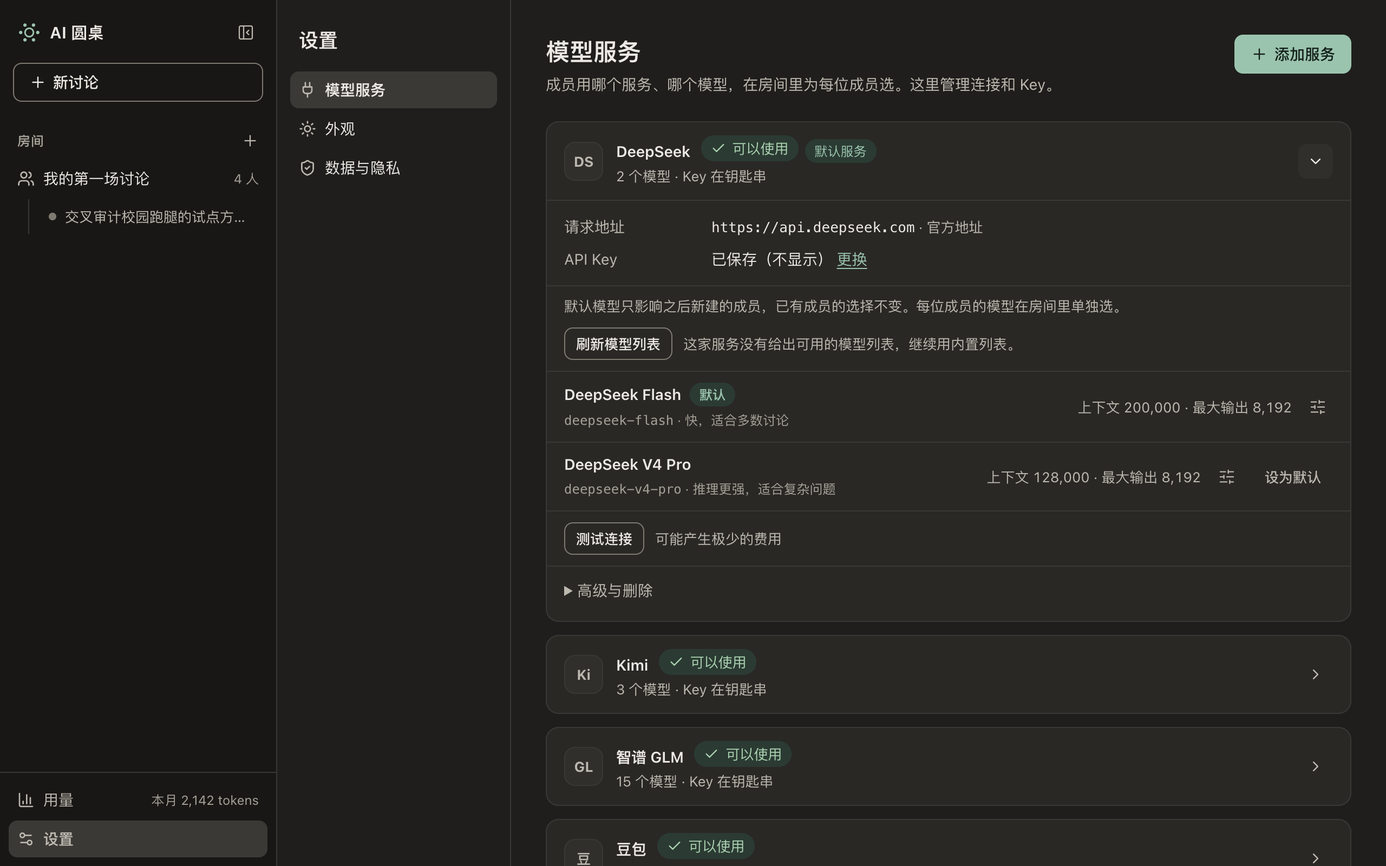
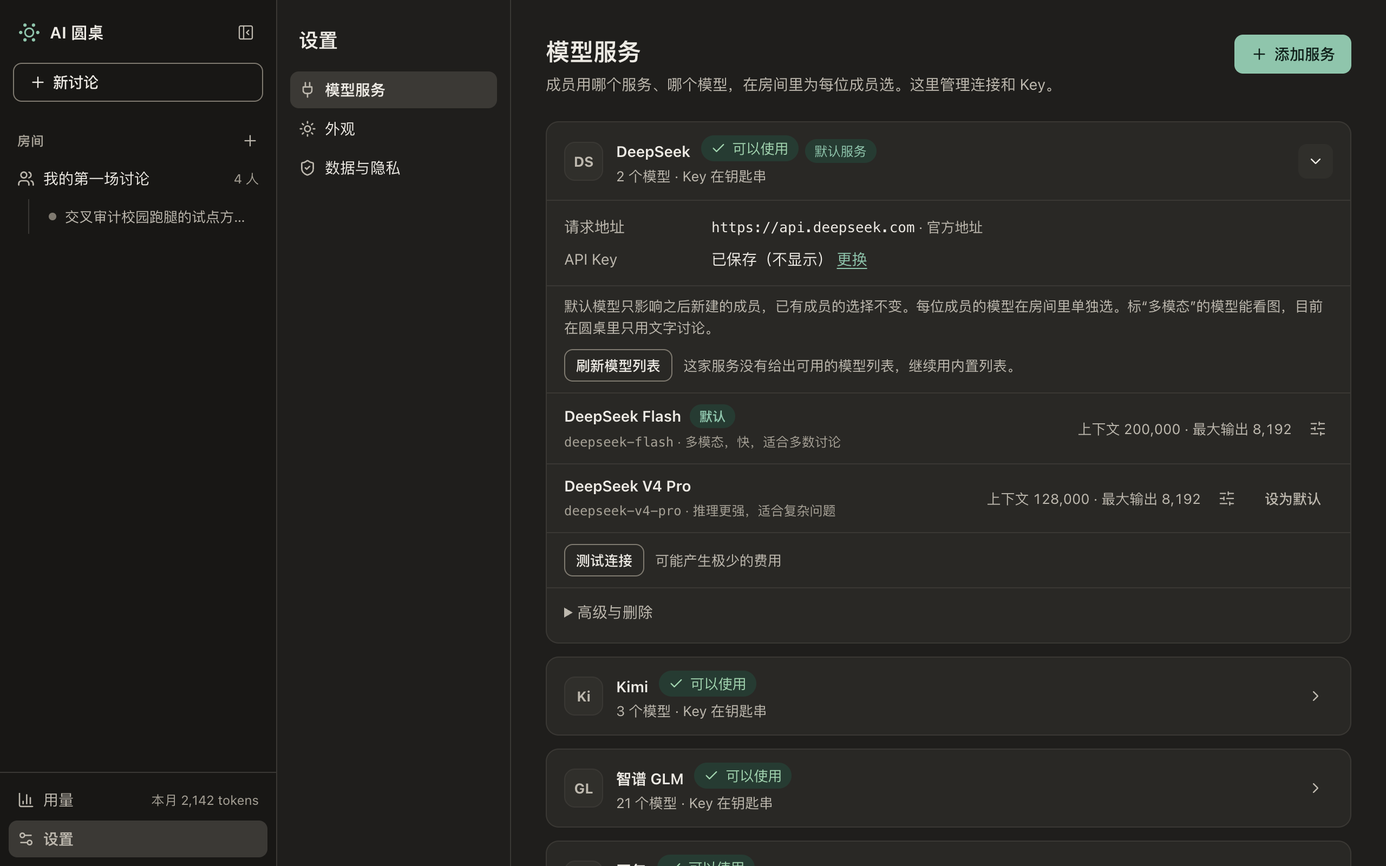
feat: multimodal models can be chosen and take part with text
Each service's multimodal chat models join the catalog, marked as such, and the
model list no longer drops them; models that only generate images, video or
speech stay out. The pages say they discuss in text for now: messages are still
plain strings, and sending images is a separate feature.

diff --git a/src/shared/serviceCatalog.ts b/src/shared/serviceCatalog.ts
@@ -1,54 +1,58 @@
 /**
  * D143: the services and models this app works with, and the only source for them. The wizard offers these; Main refuses
- * anything else before a Key is read or a request is sent. Each service lists its generally usable text models, newest first,
- * as its official documentation had them on 2026-11-04. Left out: what is being retired, closed to new users, built for one
- * task (translation, role play, long documents) or for speech and images only, and other brands' models hosted there.
+ * anything else before a Key is read or a request is sent. Each service lists the models usable for a discussion, newest first,
+ * as its official documentation had them on 2026-11-04. Models that can also read images are marked `multimodal`; the app only
+ * sends them text for now. Left out: what is being retired, closed to new users, built for one task (translation, role play,
+ * long documents) or only for generating speech, images or video, and other brands' models hosted there.
  * - DeepSeek: https://api-docs.deepseek.com/zh-cn/quick_start/pricing/
  * - 豆包: https://www.volcengine.com/docs/82379/1330310
- * - 通义千问: https://help.aliyun.com/zh/model-studio/text-generation-model (the address is the documented one that still works; the newer one holds each user's own workspace ID)
+ * - 通义千问: https://help.aliyun.com/zh/model-studio/text-generation-model , https://help.aliyun.com/zh/model-studio/vision , https://help.aliyun.com/zh/model-studio/qwen-omni (the address is the documented one that still works; the newer one holds each user's own workspace ID)
  * - Kimi: https://platform.kimi.com/docs/models
  * - 智谱 GLM: https://docs.bigmodel.cn/cn/guide/start/model-overview , https://docs.bigmodel.cn/api-reference/模型-api/对话补全
  * - 百度文心: https://cloud.baidu.com/doc/qianfan-docs/s/7m95lyy43 , https://cloud.baidu.com/doc/qianfan-api/s/3m7of64lb
- * - 腾讯混元: https://cloud.tencent.com/document/product/1823/130051 , https://cloud.tencent.com/document/product/1823/132252
+ * - 腾讯混元: https://cloud.tencent.com/document/product/1823/130051 , https://cloud.tencent.com/document/product/1823/132252 , https://cloud.tencent.com/document/product/1823/136956
  * - MiniMax: https://platform.minimax.cn/docs/guides/models-intro
  */
-export type CatalogModel = { id: string; name: string; note?: string; contextWindowTokens?: number };
+export type CatalogModel = { id: string; name: string; note?: string; contextWindowTokens?: number; multimodal?: true };
 /** `modelPattern` is what this service's own models are called; what its model list says beyond that is left out. */
 export type CatalogService = { id: string; name: string; baseUrl: string; modelPattern: RegExp; models: readonly CatalogModel[] };
 
 export const serviceCatalog: readonly CatalogService[] = [
   { id: 'deepseek', name: 'DeepSeek', baseUrl: 'https://api.deepseek.com', modelPattern: /^deepseek-/iu, models: [
-    { id: 'deepseek-flash', name: 'DeepSeek Flash', note: '快，适合多数讨论' },
+    { id: 'deepseek-flash', name: 'DeepSeek Flash', note: '快，适合多数讨论', multimodal: true },
     { id: 'deepseek-v4-pro', name: 'DeepSeek V4 Pro', note: '推理更强，适合复杂问题' }] },
   { id: 'doubao', name: '豆包', baseUrl: 'https://ark.cn-beijing.volces.com/api/v3', modelPattern: /^doubao-seed-/iu, models: [
-    { id: 'doubao-seed-2-1-pro-260915', name: 'Doubao Seed 2.1 Pro', note: '能力最强' },
-    { id: 'doubao-seed-2-1-lite-260915', name: 'Doubao Seed 2.1 Lite', note: '均衡，响应更快' },
-    { id: 'doubao-seed-evolving', name: 'Doubao Seed Evolving', note: '每周更新，长于编程和复杂任务' },
-    { id: 'doubao-seed-2-1-turbo-260628', name: 'Doubao Seed 2.1 Turbo', note: '更快' },
-    { id: 'doubao-seed-2-1-pro-260628', name: 'Doubao Seed 2.1 Pro（6 月版）', note: '上一版 2.1 Pro' },
-    { id: 'doubao-seed-2-0-lite-260428', name: 'Doubao Seed 2.0 Lite', note: '上一代，均衡' },
-    { id: 'doubao-seed-2-0-mini-260428', name: 'Doubao Seed 2.0 Mini', note: '上一代，最轻快' }] },
+    { id: 'doubao-seed-2-1-pro-260915', name: 'Doubao Seed 2.1 Pro', note: '能力最强', multimodal: true },
+    { id: 'doubao-seed-2-1-lite-260915', name: 'Doubao Seed 2.1 Lite', note: '均衡，响应更快', multimodal: true },
+    { id: 'doubao-seed-evolving', name: 'Doubao Seed Evolving', note: '每周更新，长于编程和复杂任务', multimodal: true },
+    { id: 'doubao-seed-2-1-turbo-260628', name: 'Doubao Seed 2.1 Turbo', note: '更快', multimodal: true },
+    { id: 'doubao-seed-2-1-pro-260628', name: 'Doubao Seed 2.1 Pro（6 月版）', note: '上一版 2.1 Pro', multimodal: true },
+    { id: 'doubao-seed-2-0-lite-260428', name: 'Doubao Seed 2.0 Lite', note: '上一代，均衡', multimodal: true },
+    { id: 'doubao-seed-2-0-mini-260428', name: 'Doubao Seed 2.0 Mini', note: '上一代，最轻快', multimodal: true }] },
   { id: 'qwen', name: '通义千问', baseUrl: 'https://dashscope.aliyuncs.com/compatible-mode/v1', modelPattern: /^qwen/iu, models: [
-    { id: 'qwen3.7-plus', name: 'Qwen3.7 Plus', note: '官方默认，能力和速度均衡' },
-    { id: 'qwen3.8-max', name: 'Qwen3.8 Max', note: '能力最强，适合复杂推理' },
-    { id: 'qwen3.8-flash', name: 'Qwen3.8 Flash', note: '快，适合简单任务' },
+    { id: 'qwen3.7-plus', name: 'Qwen3.7 Plus', note: '官方默认，能力和速度均衡', multimodal: true },
+    { id: 'qwen3.8-max', name: 'Qwen3.8 Max', note: '能力最强，适合复杂推理', multimodal: true },
+    { id: 'qwen3.8-flash', name: 'Qwen3.8 Flash', note: '快，适合简单任务', multimodal: true },
+    { id: 'qwen3.8-omni-flash', name: 'Qwen3.8 Omni Flash', note: '长于音视频理解', multimodal: true },
     { id: 'qwen3.7-max', name: 'Qwen3.7 Max', note: '上一代，长于复杂推理' },
-    { id: 'qwen3.7-flash', name: 'Qwen3.7 Flash', note: '上一代，快' },
-    { id: 'qwen3.6-plus', name: 'Qwen3.6 Plus', note: '旧版，均衡' },
-    { id: 'qwen3.6-flash', name: 'Qwen3.6 Flash', note: '旧版，快' },
-    { id: 'qwen3.5-plus', name: 'Qwen3.5 Plus', note: '旧版，均衡' },
-    { id: 'qwen3.5-flash', name: 'Qwen3.5 Flash', note: '旧版，快' },
+    { id: 'qwen3.7-flash', name: 'Qwen3.7 Flash', note: '上一代，快', multimodal: true },
+    { id: 'qwen3.6-plus', name: 'Qwen3.6 Plus', note: '旧版，均衡', multimodal: true },
+    { id: 'qwen3.6-flash', name: 'Qwen3.6 Flash', note: '旧版，快', multimodal: true },
+    { id: 'qwen3.5-plus', name: 'Qwen3.5 Plus', note: '旧版，均衡', multimodal: true },
+    { id: 'qwen3.5-flash', name: 'Qwen3.5 Flash', note: '旧版，快', multimodal: true },
+    { id: 'qwen3-vl-plus', name: 'Qwen3 VL Plus', note: '旧版，长于图像和文档理解', multimodal: true },
     { id: 'qwen-plus', name: 'Qwen Plus', note: '旧版，均衡' },
     { id: 'qwen-max', name: 'Qwen Max', note: '旧版，上下文只有 32k，讨论长了要先生成摘要', contextWindowTokens: 32000 },
     { id: 'qwen-flash', name: 'Qwen Flash', note: '旧版，快' }] },
   { id: 'kimi', name: 'Kimi', baseUrl: 'https://api.moonshot.cn/v1', modelPattern: /^kimi-/iu, models: [
-    { id: 'kimi-k3.1-pro', name: 'Kimi K3.1 Pro', note: '能力最强的旗舰' },
-    { id: 'kimi-k3.1-pro-highspeed', name: 'Kimi K3.1 Pro 高速版', note: '能力相同，速度约 2～3 倍' },
-    { id: 'kimi-k3', name: 'Kimi K3', note: '上一代旗舰' }] },
+    { id: 'kimi-k3.1-pro', name: 'Kimi K3.1 Pro', note: '能力最强的旗舰', multimodal: true },
+    { id: 'kimi-k3.1-pro-highspeed', name: 'Kimi K3.1 Pro 高速版', note: '能力相同，速度约 2～3 倍', multimodal: true },
+    { id: 'kimi-k3', name: 'Kimi K3', note: '上一代旗舰', multimodal: true }] },
   { id: 'glm', name: '智谱 GLM', baseUrl: 'https://open.bigmodel.cn/api/paas/v4', modelPattern: /^glm-/iu, models: [
     { id: 'glm-5.3', name: 'GLM-5.3', note: '旗舰，长于复杂和长程任务' },
-    { id: 'glm-5.3-flash', name: 'GLM-5.3 Flash', note: '快，能力接近上一代旗舰' },
-    { id: 'glm-5.3-flashx', name: 'GLM-5.3 FlashX', note: '比 Flash 更快更流畅' },
+    { id: 'glm-5.3-flash', name: 'GLM-5.3 Flash', note: '快，能力接近上一代旗舰', multimodal: true },
+    { id: 'glm-5.3-flashx', name: 'GLM-5.3 FlashX', note: '比 Flash 更快更流畅', multimodal: true },
+    { id: 'glm-5v-turbo', name: 'GLM-5V Turbo', note: '长于看图和视觉编程', multimodal: true },
     { id: 'glm-5.2', name: 'GLM-5.2', note: '上一代旗舰' },
     { id: 'glm-5.1', name: 'GLM-5.1', note: '较早的旗舰' },
     { id: 'glm-5-turbo', name: 'GLM-5 Turbo', note: 'GLM-5 的快速版' },
@@ -57,20 +61,30 @@ export const serviceCatalog: readonly CatalogService[] = [
     { id: 'glm-4.7-flashx', name: 'GLM-4.7 FlashX', note: '旧版，比 Flash 更快' },
     { id: 'glm-4.7-flash', name: 'GLM-4.7 Flash', note: '旧版，轻量' },
     { id: 'glm-4.6', name: 'GLM-4.6', note: '旧版' },
+    { id: 'glm-4.6v', name: 'GLM-4.6V', note: '旧版，长于看图', multimodal: true },
+    { id: 'glm-4.6v-flashx', name: 'GLM-4.6V FlashX', note: '旧版，轻量且快', multimodal: true },
+    { id: 'glm-4.6v-flash', name: 'GLM-4.6V Flash', note: '旧版，轻量', multimodal: true },
     { id: 'glm-4.5-air', name: 'GLM-4.5 Air', note: '旧版，轻量' },
     { id: 'glm-4.5-airx', name: 'GLM-4.5 AirX', note: '旧版，轻量且响应快' },
     { id: 'glm-4-flashx-250414', name: 'GLM-4 FlashX', note: '旧版，推理很快' },
-    { id: 'glm-4-flash-250414', name: 'GLM-4 Flash', note: '旧版，轻量' }] },
+    { id: 'glm-4-flash-250414', name: 'GLM-4 Flash', note: '旧版，轻量' },
+    { id: 'glm-4.1v-thinking-flashx', name: 'GLM-4.1V Thinking FlashX', note: '旧版，带思考的视觉模型', multimodal: true, contextWindowTokens: 64000 },
+    { id: 'glm-4.1v-thinking-flash', name: 'GLM-4.1V Thinking Flash', note: '旧版，带思考的视觉模型，轻量', multimodal: true, contextWindowTokens: 64000 }] },
   { id: 'ernie', name: '百度文心', baseUrl: 'https://qianfan.baidubce.com/v2', modelPattern: /^ernie-/iu, models: [
     { id: 'ernie-5.1', name: 'ERNIE 5.1', note: '旗舰' }] },
   { id: 'hunyuan', name: '腾讯混元', baseUrl: 'https://tokenhub.tencentmaas.com/v1', modelPattern: /^(hy[0-9-]|hunyuan-)/iu, models: [
-    { id: 'hy4', name: 'HY4', note: '正式版，长于长程和复杂任务' },
+    { id: 'hy4', name: 'HY4', note: '正式版，长于长程和复杂任务', multimodal: true },
     { id: 'hy4-preview', name: 'HY4 Preview', note: '预览版' },
-    { id: 'hy3', name: 'HY3', note: '上一代，长于编程、长文和推理' }] },
+    { id: 'hy3', name: 'HY3', note: '上一代，长于编程、长文和推理' },
+    { id: 'hy-vision-2.0-instruct', name: 'HY Vision 2.0', note: '长于图文理解，输入较短', multimodal: true, contextWindowTokens: 32000 },
+    { id: 'hunyuan-t1-vision-20250916', name: 'HY Vision 1.5 Thinking', note: '上一代，带思考，输入较短', multimodal: true, contextWindowTokens: 24000 }] },
   { id: 'minimax', name: 'MiniMax', baseUrl: 'https://api.minimax.cn/v1', modelPattern: /^minimax-m/iu, models: [
-    { id: 'MiniMax-M3.1-Flash', name: 'MiniMax M3.1 Flash', note: '新一代，思考深度可调' },
-    { id: 'MiniMax-M3', name: 'MiniMax M3', note: '上一版' }] },
+    { id: 'MiniMax-M3.1-Flash', name: 'MiniMax M3.1 Flash', note: '新一代，思考深度可调', multimodal: true },
+    { id: 'MiniMax-M3', name: 'MiniMax M3', note: '上一版', multimodal: true }] },
 ];
+
+/** The note a person reads: what a model can do is said first, so nobody has to guess. */
+export const modelNote = (model: CatalogModel) => model.multimodal ? `多模态${model.note ? `，${model.note}` : ''}` : model.note;
 
 const normalized = (address: string) => address.replace(/\/+$/u, '');
 /** The catalog's service at exactly this address, if any. */
@@ -80,8 +94,8 @@ export const catalogHas = (service: CatalogService, modelId: string) => service.
 
 /** Words in a model's ID that mean it was built for one task, or is not for text. Matched as whole words of the ID. */
 const specialWords = new Set(['translation', 'translate', 'character', 'role', 'roleplay', 'tts', 'asr', 'audio', 'speech', 'voice', 'realtime', 'music',
-  'image', 'video', 'vision', 'vl', 'omni', 'ocr', 'embedding', 'rerank', '3d', 'long', 'doc', 'legal', 'research']);
-const specialWord = (word: string) => specialWords.has(word) || /^mt\d*$/u.test(word) || /^\d+v$/u.test(word);
+  'image', 'video', 'ocr', 'embedding', 'rerank', '3d', 'long', 'doc', 'legal', 'research']);
+const specialWord = (word: string) => specialWords.has(word) || /^mt\d*$/u.test(word);
 /** D143: a model a service's own list may add: named as that service names its models, for general text, and not a dated copy. */
 export const discoverable = (service: CatalogService, modelId: string) => service.modelPattern.test(modelId) && !/-\d{4}-\d{2}-\d{2}$/u.test(modelId)
   && !modelId.toLowerCase().split(/[^a-z0-9]+/u).some(specialWord);

diff --git a/tests/e2e/mixed-providers.spec.ts b/tests/e2e/mixed-providers.spec.ts
@@ -11,7 +11,7 @@ const screens = process.env.ROUNDTABLE_E2E_SCREENS ? join(root, process.env.ROUN
 const kept = new Set(['welcome', 'wizard-choose', 'wizard-key', 'first-discussion', 'services', 'room', 'paused', 'finished', 'summary', 'artifact', 'usage-run',
   'settings-sections', 'services-dark', 'wizard-choose-dark', 'wizard-key-dark', 'discussion-dark', 'usage-dark',
   'stopped-service', 'stopped-member', 'stopped-service-dark', 'stopped-member-dark',
-  'discover-wizard', 'discover-members', 'discover-services', 'discover-delisted', 'discover-delisted-dark', 'pick-model', 'picked-discussion', 'picked-members', 'picked-member-dialog', 'picked-default', 'picked-finished', 'picked-members-dark', 'thinking-wait', 'quota-used-up', 'quota-regenerated']);
+  'multimodal-wizard', 'multimodal-member', 'discover-wizard', 'discover-members', 'discover-services', 'discover-delisted', 'discover-delisted-dark', 'pick-model', 'picked-discussion', 'picked-members', 'picked-member-dialog', 'picked-default', 'picked-finished', 'picked-members-dark', 'thinking-wait', 'quota-used-up', 'quota-regenerated']);
 const captions: Array<{ file: string; caption: string }> = [];
 let shot = 0;
 
@@ -372,7 +372,7 @@ test('D143 the host picks the model: every model of a service is offered, nothin
   const list = dialog.getByRole('combobox', { name: '模型' });
   await expect(list).toBeVisible();
   await expect(list).toHaveValue('qwen3.7-plus');
-  expect((await list.locator('option').allTextContents()).length, 'Every model of the service is offered').toBe(12);
+  expect((await list.locator('option').allTextContents()).length, 'Every model of the service is offered').toBe(14);
   await list.selectOption('qwen3.8-flash');
   await dialog.getByRole('textbox', { name: 'API Key' }).fill(FAKE_KEY);
   await capture(running, 'pick-model', '连接通义千问：模型下拉框始终显示，默认项看得见，这里改成 Qwen3.8 Flash；每个模型都有一句说明。');
@@ -390,7 +390,7 @@ test('D143 the host picks the model: every model of a service is offered, nothin
   // One member takes another model of the same service, from the list grouped by service.
   await page.getByRole('button', { name: '「审查者」：编辑、排序、归档、删除' }).click();
   await page.getByRole('menuitem', { name: /编辑/u }).click();
-  await expect(page.locator('dialog[open] select optgroup[label="通义千问"] option')).toHaveCount(12);
+  await expect(page.locator('dialog[open] select optgroup[label="通义千问"] option')).toHaveCount(14);
   await pickModel(page, { service: '通义千问', id: 'qwen3.7-max' });
   await capture(running, 'picked-member-dialog', '编辑成员：模型按服务分组，这位成员单独换成 Qwen3.7 Max。');
   await page.locator('dialog[open]').getByRole('button', { name: '保存' }).click();
@@ -417,6 +417,41 @@ test('D143 the host picks the model: every model of a service is offered, nothin
   await statusHas(page, '已完成');
   await capture(running, 'picked-finished', '讨论结束：服务收到的 model 就是所选的模型。');
   expect(discussionRequests(fixture).map(request => [request.service, request.raw.model])).toEqual([['qwen', 'qwen3.8-flash'], ['qwen', 'qwen3.7-max'], ['qwen', 'qwen3.8-flash']]);
+  if (screens) writeFileSync(join(screens, 'captions.json'), JSON.stringify(captions, null, 1));
+  await running.quit();
+});
+
+test('D143 a model that can read images takes part with text, and the page says images are not sent yet', async ({ harness }) => {
+  test.setTimeout(120_000);
+  const { fixture } = harness;
+  fixture.reply = body => `${memberOf(body) ?? '成员'}（${body.model}）的发言。`;
+  const running = await harness.launch();
+  const { page } = running;
+  await theme(running, 'light');
+  await page.getByRole('button', { name: '连接…' }).click();
+  await page.getByRole('button', { name: /^智谱 GLM/u }).click();
+  const dialog = page.locator('dialog[open]');
+  const list = dialog.getByRole('combobox', { name: '模型' });
+  await list.selectOption('glm-5v-turbo');
+  expect(await list.locator('option[value="glm-5v-turbo"]').textContent()).toContain('多模态');
+  expect(await list.locator('option[value="glm-5.3"]').textContent()).not.toContain('多模态');
+  await expect(dialog).toContainText('标“多模态”的模型能看图，目前在圆桌里只用文字讨论。');
+  await dialog.getByRole('textbox', { name: 'API Key' }).fill(FAKE_KEY);
+  await capture(running, 'multimodal-wizard', '多模态模型可以选，说明里写明多模态；下面写清目前只用文字讨论。');
+  await dialog.getByRole('button', { name: '保存' }).click();
+  await expect(page.locator('dialog[open]')).toHaveCount(0);
+  const roomName = (await running.api<{ name: string }[]>('rooms.listRooms'))[0]!.name;
+  await page.locator('.sidebar .sb-item', { hasText: roomName }).first().click();
+  await page.getByRole('button', { name: '「审查者」：编辑、排序、归档、删除' }).click();
+  await page.getByRole('menuitem', { name: /编辑/u }).click();
+  await expect(page.locator('dialog[open]')).toContainText('目前在圆桌里只用文字讨论');
+  await capture(running, 'multimodal-member', '编辑成员：选中多模态模型时同样写明只用文字。');
+  await page.locator('dialog[open]').getByRole('button', { name: '取消' }).click();
+  await newDiscussion(running, roomName, '试点方案。');
+  await page.getByRole('button', { name: '开始讨论' }).click();
+  await statusHas(page, '已完成');
+  expect(fixture.requests.map(request => request.raw.model)).toEqual(['glm-5v-turbo', 'glm-5v-turbo', 'glm-5v-turbo']);
+  for (const request of fixture.requests) for (const message of request.messages) expect(typeof message.content).toBe('string');
   if (screens) writeFileSync(join(screens, 'captions.json'), JSON.stringify(captions, null, 1));
   await running.quit();
 });

diff --git a/src/renderer/features/rooms/MemberDialog.tsx b/src/renderer/features/rooms/MemberDialog.tsx
@@ -2,13 +2,13 @@ import { useState, type FormEvent } from 'react';
 import { Check, CircleAlert, FlaskConical } from 'lucide-react';
 import type { AgentConfiguration, CreateAgentInput, ProviderReadiness, ProviderSummary } from '../../../shared/contracts/configuration';
 import { createAgentInputSchema } from '../../../shared/schemas/configuration';
-import { catalogServiceAt, serviceCatalog } from '../../../shared/serviceCatalog';
+import { catalogServiceAt, modelNote, serviceCatalog } from '../../../shared/serviceCatalog';
 import { Button, Choice, Field, Modal } from '../../components/ui';
-import { delistedText, modelBlockText } from '../settings/model';
+import { delistedText, modelBlockText, multimodalText } from '../settings/model';
 import { defaultModelFor, roleTemplates, roomErrorText } from './templates';
 
 const SEPARATOR = '\u0000';
-type Option = { value: string; providerId: string; group: string; modelId: string; label: string; usable?: boolean; reason: string; mock: boolean };
+type Option = { value: string; providerId: string; group: string; modelId: string; label: string; multimodal: boolean; usable?: boolean; reason: string; mock: boolean };
 /** Every configured model of every usable service, labelled with why it cannot take part when it cannot. */
 export function modelOptions(providers: readonly ProviderSummary[], readiness: readonly ProviderReadiness[] | undefined): Option[] {
   return providers.filter(provider => provider.enabled && provider.configurationValid && provider.kind !== null).flatMap(provider => {
@@ -18,8 +18,9 @@ export function modelOptions(providers: readonly ProviderSummary[], readiness: r
       const state = row?.models.find(model => model.modelId === modelId);
       if (row && !state || state?.blockedBy === 'unsupported') return [];
       const name = provider.customModels.find(model => model.id === modelId)?.name ?? modelId;
-      const note = catalogServiceAt(serviceCatalog, row?.baseUrl)?.models.find(model => model.id === modelId)?.note;
-      return [{ value: `${provider.id}${SEPARATOR}${modelId}`, providerId: provider.id, group: provider.name, modelId, mock: provider.kind === 'mock',
+      const listed = catalogServiceAt(serviceCatalog, row?.baseUrl)?.models.find(model => model.id === modelId);
+      const note = listed && modelNote(listed);
+      return [{ value: `${provider.id}${SEPARATOR}${modelId}`, providerId: provider.id, group: provider.name, modelId, multimodal: Boolean(listed?.multimodal), mock: provider.kind === 'mock',
         label: provider.kind === 'mock' ? '演示（不联网）' : `${name}（${modelId}）${note ? ` · ${note}` : ''}`, usable: state?.usable, reason: state?.delisted ? delistedText : modelBlockText(state) }];
     });
   });
@@ -77,7 +78,7 @@ export function MemberDialog({ agent, roomId, order, providers, readiness, onSav
       </select>}</Field>
       <p className="model-state" role="status">{selected?.mock ? <span className="status-text muted"><FlaskConical aria-hidden />演示成员不联网，回复是预先写好的示例，不代表真实模型的水平。</span>
         : selected?.usable && selected.reason ? <span className="status-text warn-text"><CircleAlert aria-hidden />{selected.reason}。还可以继续用，由你决定。</span>
-        : selected?.usable ? <span className="status-text ok-text"><Check aria-hidden />可以使用：Key 已保存。</span>
+        : selected?.usable ? <span className="status-text ok-text"><Check aria-hidden />可以使用：Key 已保存。{selected.multimodal ? multimodalText : ''}</span>
           : selected ? <span className="status-text warn-text"><CircleAlert aria-hidden />暂时不能参与讨论：{selected.reason || '状态未知'}。<button type="button" className="link-btn" onClick={onOpenSettings}>去设置</button></span>
             : <span className="status-text warn-text"><CircleAlert aria-hidden />{agent?.withheldModelId ? '之前填的模型名像 API Key，已隐藏且不会使用；请重新选择。' : stale ? '原来选的模型已不可用，请重新选择。' : '还没选模型，暂时不会参与讨论。'}
               {options.length === 0 && <> 还没有可用的服务，<button type="button" className="link-btn" onClick={onOpenSettings}>去连接一个</button>。</>}</span>}</p>

diff --git a/src/renderer/features/settings/ServicesPanel.tsx b/src/renderer/features/settings/ServicesPanel.tsx
@@ -4,7 +4,8 @@ import type { ProviderConfiguration, ProviderKeyState, ProviderReadiness, Provid
 import { DEFAULT_MODEL_CONTEXT_WINDOW_TOKENS, DEFAULT_MODEL_MAX_OUTPUT_TOKENS, MAX_MODEL_LIMIT_TOKENS, MIN_MODEL_CONTEXT_WINDOW_TOKENS } from '../../../shared/schemas/provider';
 import { Button, Field, IconButton, Pill, Switch, Tag, cx } from '../../components/ui';
 import { presetOf, targetOf } from './presets';
-import { delistedText, discoveryText, errorMessage, modelBlockText, refreshStaleModels, serviceStatus, testService, type ServiceTest } from './model';
+import { modelNote } from '../../../shared/serviceCatalog';
+import { delistedText, discoveryText, errorMessage, modelBlockText, multimodalText, refreshStaleModels, serviceStatus, testService, type ServiceTest } from './model';
 
 /** D134: why these limits cannot be saved; Main's schema refuses the same values. */
 function limitsError({ context, output }: { context: string; output: string }): string | undefined {
@@ -85,6 +86,7 @@ function ServiceCard({ api, summary, readiness, expanded, onToggle, onChanged, o
   const target = config ? targetOf(config) : null;
   // D143: a service outside the catalog stays only for its history: it can be renamed or removed, with its Key.
   const outside = readiness?.supported === false;
+  const listedNote = (id: string) => { const model = preset?.models.find(item => item.id === id); return model && modelNote(model); };
   const keyNow = readiness?.keyState ?? keyState?.state;
   const keySaved = keyNow === 'configured' || keyNow === 'session';
   const models = config ? [...new Map([...(config.defaultModelId ? [{ id: config.defaultModelId, name: config.customModels.find(model => model.id === config.defaultModelId)?.name ?? config.defaultModelId }] : []), ...config.customModels].map(model => [model.id, model])).values()] : [];
@@ -148,12 +150,12 @@ function ServiceCard({ api, summary, readiness, expanded, onToggle, onChanged, o
             : <>还没填写 <Button size="sm" variant="primary" onClick={() => onRekey(config)}>填写 Key</Button></>}</dd>
       </dl>}
       {config && !mock && !outside && <div className="svc-models">
-        <p className="small muted svc-pad">默认模型只影响之后新建的成员，已有成员的选择不变。每位成员的模型在房间里单独选。</p>
+        <p className="small muted svc-pad">默认模型只影响之后新建的成员，已有成员的选择不变。每位成员的模型在房间里单独选。{preset?.models.some(model => model.multimodal) ? multimodalText : ''}</p>
         <div className="model-row svc-discovery"><Button size="sm" disabled={busy || !keySaved || !config.enabled} title={keySaved ? '向服务商查一次模型列表，不生成内容' : '先填写 Key'} onClick={refreshList}>刷新模型列表</Button>
           <span className="small muted" role="status">{discoveryText(readiness?.discovery)}</span></div>
         {models.map(model => {
           const state = readiness?.models.find(item => item.modelId === model.id);
-          return <div className="model-row" key={model.id}><span className="model-name"><b>{model.name}{config.defaultModelId === model.id && <Tag tone="accent">默认</Tag>}</b><span><code>{model.id}</code>{preset?.models.find(item => item.id === model.id)?.note && <small> · {preset.models.find(item => item.id === model.id)!.note}</small>}</span>
+          return <div className="model-row" key={model.id}><span className="model-name"><b>{model.name}{config.defaultModelId === model.id && <Tag tone="accent">默认</Tag>}</b><span><code>{model.id}</code>{listedNote(model.id) && <small> · {listedNote(model.id)}</small>}</span>
               {state?.delisted && <span className="small warn-text">{delistedText}</span>}</span>
             <span className="push small muted tabular">{state ? `上下文 ${state.contextWindowTokens.toLocaleString('zh-CN')} · 最大输出 ${state.maxOutputTokens.toLocaleString('zh-CN')}` : ''}</span>
             <IconButton size="sm" icon={SlidersHorizontal} label={`${model.name} 的上限`} aria-expanded={limitsOf === model.id} disabled={busy || !state} onClick={() => openLimits(model.id, state)} />

diff --git a/tests/integration/providers/catalogEnforcement.test.ts b/tests/integration/providers/catalogEnforcement.test.ts
@@ -7,7 +7,8 @@ import { KeyService, type KeyStorageBackend } from '../../../src/main/security/K
 import { RunService } from '../../../src/main/services/RunService';
 import { MockProvider } from '../../../src/main/providers/mock/MockProvider';
 import { ProviderSettingsService } from '../../../src/main/settings/ProviderSettingsService';
-import { catalogServiceAt, serviceCatalog } from '../../../src/shared/serviceCatalog';
+import { createPublicMessagesBuilder } from '../../../src/main/context/wirePublicContext';
+import { catalogServiceAt, modelNote, serviceCatalog } from '../../../src/shared/serviceCatalog';
 import { sseReply } from '../../fixtures/testCatalog';
 
 const backend: KeyStorageBackend = { mode: 'secure', backend: 'fixture', persistent: true,
@@ -67,6 +68,28 @@ describe('D143 a service is saved only as the catalog has it', () => {
         expect(model.note).not.toMatch(/价格|便宜|免费|成本|元|¥/u);
       }
     }
+  });
+  it('says so in the note whenever a model is multimodal, and only then', () => {
+    for (const service of serviceCatalog) for (const model of service.models) expect(modelNote(model)?.startsWith('多模态'), model.id).toBe(Boolean(model.multimodal));
+    expect(serviceCatalog.flatMap(service => service.models).filter(model => model.multimodal).length).toBeGreaterThan(20);
+  });
+  it.each(serviceCatalog.flatMap(service => service.models.filter(model => model.multimodal).map(model => [service.id, model.id, service] as const)))('%s %s takes part in a discussion with plain text', async (_service, modelId, service) => {
+    const { db, settings, registry, sent } = fixture();
+    sent.mockImplementation(async () => sseReply('文字发言'));
+    const provider = await settings.createProvider({ name: service.name, kind: 'compatible', baseUrl: service.baseUrl, defaultModelId: modelId });
+    await settings.setKey({ providerId: provider.id, apiKey: 'owned-fake-key' });
+    db.createRoom({ id: 'r', name: 'R' });
+    db.createAgent({ id: 'a', roomId: 'r', displayName: 'A', roleTemplateId: 'draft', providerId: provider.id, modelId });
+    const run = new RunService(db, new MockProvider(), createPublicMessagesBuilder((model, member) => member.providerId ? registry.budget(member.providerId, model!) : undefined), registry);
+    try {
+      const started = await run.start({ roomId: 'r', task: '讨论目标', workflowSnapshot: {}, maxTurns: 1, outputTokenLimit: 8 });
+      await run.waitForIdle(started.runId);
+      expect(run.getSnapshot(started.runId).status).toBe('completed');
+      const body = JSON.parse(String(sent.mock.calls[0]![1]!.body));
+      expect(body.model).toBe(modelId);
+      expect(body.messages.length).toBeGreaterThan(0);
+      for (const message of body.messages) expect(typeof message.content).toBe('string');
+    } finally { await run.shutdown(); }
   });
   it('a model the catalog knows is short keeps that limit, unless the host sets another', async () => {
     const { settings, registry } = fixture();

diff --git a/src/renderer/features/settings/ConnectWizard.tsx b/src/renderer/features/settings/ConnectWizard.tsx
@@ -3,7 +3,8 @@ import { Check, CircleAlert, FlaskConical, Info, Lock } from 'lucide-react';
 import type { KeyStorageStatus, ProviderConfiguration, ProviderReadiness, ProviderSettingsApiContract, ProviderSummary } from '../../../shared/contracts/configuration';
 import { Button, Choice, Field, Modal } from '../../components/ui';
 import { presets, presetOf, targetOf, type ServicePreset } from './presets';
-import { errorMessage, refreshStaleModels, testService, type ServiceTest } from './model';
+import { modelNote } from '../../../shared/serviceCatalog';
+import { errorMessage, multimodalText, refreshStaleModels, testService, type ServiceTest } from './model';
 
 /** What the app did after a connection: the room it created for the first real service, if any. */
 export type ConnectedRoom = { roomId: string; roomName: string; memberNames: string[]; modelName: string | null };
@@ -140,9 +141,9 @@ export function ConnectWizard({ api, providers, rekey, onClose, onConnected, onS
         {props => <input {...props} ref={secret} className="input mono" type="password" autoComplete="off" spellCheck={false} disabled={busy} autoFocus placeholder={keySaved ? '已保存；要更换就重新粘贴' : undefined}
           onChange={event => setHasKey(event.target.value.length > 0)} />}</Field>}
       {mock && <div className="callout"><Info aria-hidden /><span className="grow">演示服务没有地址，也不需要 Key。演示成员的回复是预先写好的示例，不代表真实模型的水平，也不会出现在用量统计里。</span></div>}
-      {!rekey && !mock && <Field label="模型" help="这家服务的默认模型。第一次连接时，建好的三位成员都用它；每位成员可以单独换。">
+      {!rekey && !mock && <Field label="模型" help={`这家服务的默认模型。第一次连接时，建好的三位成员都用它；每位成员可以单独换。${preset.models.some(model => model.multimodal) ? multimodalText : ''}`}>
         {props => <select {...props} className="select input" value={modelId} disabled={busy} onChange={event => setModelId(event.target.value)}>
-          {preset.models.map(model => <option key={model.id} value={model.id}>{model.name}（{model.id}）{model.note ? ` · ${model.note}` : ''}</option>)}
+          {preset.models.map(model => <option key={model.id} value={model.id}>{model.name}（{model.id}）{modelNote(model) ? ` · ${modelNote(model)}` : ''}</option>)}
           {listed.map(id => <option key={id} value={id}>{id}</option>)}</select>}</Field>}
       {error && <p className="field-error" role="alert">{error}</p>}
     </form>}

diff --git a/tests/integration/providers/modelDiscovery.test.ts b/tests/integration/providers/modelDiscovery.test.ts
@@ -39,9 +39,13 @@ describe('D143 which models a list may add', () => {
   ])('%s leaves out what is not its own: %s', (id, model) => expect(discoverable(service(id), model)).toBe(false));
   it.each([
     ['doubao', 'doubao-seed-translation-250915'], ['doubao', 'doubao-seed-character-260628'], ['doubao', 'doubao-seed-embedding-1'], ['qwen', 'qwen-mt-plus'], ['qwen', 'qwen-audio-3.1-tts-plus'], ['qwen', 'qwen-image-3.0-pro'], ['qwen', 'qwen3.7-text-embedding'],
-    ['qwen', 'qwen3.7-text-rerank'], ['qwen', 'qwen3-vl-plus'], ['qwen', 'qwen3.8-omni-flash'], ['qwen', 'qwen-long'], ['qwen', 'QWEN-OCR'], ['glm', 'glm-4.6v'], ['glm', 'glm-5v-turbo'], ['glm', 'glm-5.3-flashx-legal'], ['glm', 'glm-4-voice'], ['glm', 'glm-tts'], ['glm', 'glm-asr-2512'],
-    ['hunyuan', 'hy-mt2-pro'], ['hunyuan', 'hunyuan-role-latest'], ['hunyuan', 'hunyuan-t1-vision-20250916'],
+    ['qwen', 'qwen3.7-text-rerank'], ['qwen', 'qwen3-vl-embedding'], ['qwen', 'qwen-vl-ocr'], ['qwen', 'qwen3.8-omni-flash-realtime'], ['qwen', 'qwen-long'], ['qwen', 'QWEN-OCR'], ['glm', 'glm-image'], ['glm', 'glm-ocr'], ['glm', 'glm-5.3-flashx-legal'], ['glm', 'glm-4-voice'], ['glm', 'glm-tts'], ['glm', 'glm-asr-2512'],
+    ['hunyuan', 'hy-mt2-pro'], ['hunyuan', 'hunyuan-role-latest'], ['hunyuan', 'hunyuan-turbos-vision-video-20250728'],
   ])('%s leaves out the special-purpose %s', (id, model) => expect(discoverable(service(id), model)).toBe(false));
+  it.each([
+    ['qwen', 'qwen3-vl-plus'], ['qwen', 'qwen3.8-omni-flash'], ['qwen', 'qwen3.5-omni-plus'], ['qwen', 'qwen-vl-max'], ['glm', 'glm-5v-turbo'], ['glm', 'glm-4.6v'], ['glm', 'glm-4.6v-flash'], ['glm', 'glm-4v-flash'], ['glm', 'glm-4.1v-thinking-flash'],
+    ['hunyuan', 'hunyuan-t1-vision-20250916'], ['hunyuan', 'hy-vision-2.0-instruct'],
+  ])('%s keeps the multimodal %s', (id, model) => expect(discoverable(service(id), model)).toBe(true));
   it('matches whole words, so a word inside another does not count', () => {
     expect(discoverable(service('kimi'), 'kimi-smart')).toBe(true);
     expect(discoverable(service('qwen'), 'qwen-prole')).toBe(true);

diff --git a/tests/unit/rendererRooms/roomPage.test.tsx b/tests/unit/rendererRooms/roomPage.test.tsx
@@ -115,7 +115,7 @@ describe('添加成员 (D5-A)', () => {
     expect((screen.getByLabelText('名字') as HTMLInputElement).value).toBe('审查者');
     expect((screen.getByLabelText('角色') as HTMLInputElement).value).toBe('审查');
     expect((screen.getByLabelText('设定可选') as HTMLTextAreaElement).value).toContain('你负责审查');
-    expect(screen.getByRole('status').textContent).toBe('可以使用：Key 已保存。');
+    expect(screen.getByRole('status').textContent).toBe('可以使用：Key 已保存。标“多模态”的模型能看图，目前在圆桌里只用文字讨论。');
     fireEvent.change(screen.getByLabelText('名字'), { target: { value: '老周' } });
     fireEvent.click(screen.getByRole('button', { name: '添加' }));
     await waitFor(() => expect(onSave).toHaveBeenCalledWith(expect.objectContaining({ roomId: 'r1', displayName: '老周', roleTemplateId: '审查', providerId: 'ds', modelId: 'deepseek-flash', displayOrder: 3 })));

diff --git a/src/renderer/features/settings/model.ts b/src/renderer/features/settings/model.ts
@@ -58,6 +58,8 @@ export async function testService(api: Pick<ProviderSettingsApiContract, 'testCo
   return reply.ok ? { tone: 'ok', text: '已收到回复，连接正常' } : { tone: 'warn', text: errorMessage(reply.error) };
 }
 
+/** D143: such a model takes part with text; nothing on the page should suggest images can be sent. */
+export const multimodalText = '标“多模态”的模型能看图，目前在圆桌里只用文字讨论。';
 export const delistedText = '服务商列表里已经没有这个模型，可能已下线';
 
 /** D143: where the model list on the page comes from, in one plain sentence. */

diff --git a/SPEC.md b/SPEC.md
@@ -42,7 +42,7 @@ PolyForm Noncommercial 1.0.0 为优先考虑的许可证，禁止未经授权的
 
 ## 多服务商与 Provider Preset Catalog（2026-10-20 用户追加）
 
-支持国内主流大模型，只能使用内置目录里的服务（D143）：DeepSeek、豆包、通义千问、Kimi、智谱 GLM、百度文心、腾讯混元、MiniMax。每家的通用文本模型都列出来由用户选；服务商新出的本品牌模型从它自己的接口自动发现，不用等发版。Coding 套餐/订阅账号不自动具有 API 权益。
+支持国内主流大模型，只能使用内置目录里的服务（D143）：DeepSeek、豆包、通义千问、Kimi、智谱 GLM、百度文心、腾讯混元、MiniMax。每家的通用文本和多模态对话模型都列出来由用户选（多模态模型目前只用文字讨论）；服务商新出的本品牌模型从它自己的接口自动发现，不用等发版。Coding 套餐/订阅账号不自动具有 API 权益。
 
 区分服务商/渠道的 Provider 配置实例、具体 Model 和协议 Adapter。沿用 providerId 与 (providerId, modelId) 身份；所有服务共用一个通用 Adapter。内置目录（`src/shared/serviceCatalog.ts`）是服务和地址的唯一来源，模型来自目录和服务商自己的列表，Main 在保存配置和发请求时强制；目录不含凭据，同一服务可创建多个独立实例。
 
